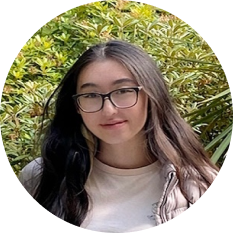
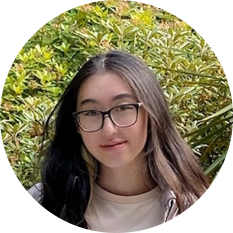
rearranged order of exec and updated pictures

diff --git a/client/src/pages/Exec.js b/client/src/pages/Exec.js
@@ -57,14 +57,26 @@ const Exec = () => {
       <button class="button" data-tip data-for="gilberto">
           <Card icon={images["gilbertodiaz.png"]} name={"Gilberto Diaz"} alias={"gilito345"} position={"Presidential Intern and Broadcast lead"} bio={"EECS, Class of 2024"}></Card>
       </button>
-      <button class="button" data-tip data-for="hari">
-          <Card icon={images["hariganeshan.png"]} name={"Hari Ganeshan"} alias={"WarRaptors"} position={"Tournament Operations and Marketing Intern"} bio={"Economics & Public Health, Class of 2024"}></Card>
+      <button class="button" data-tip data-for="therese">
+        <Card icon={images["thereserico.png"]} name={"Therese Rico"} alias={"PURPLE LILAC12"} position={"Tournament Operations and Championship Lead"} bio={"Business Administration, Class of 2024"}></Card>
       </button>
       <button class="button" data-tip data-for="jacob">
         <Card icon={images["jacobknudson.png"]} name={"Jacob Knudson"} alias={"woopah"} position={"Marketing and Outreach Lead"} bio={"Computer Science, Class of 2025"}></Card>
       </button>
+      <button class="button" data-tip data-for="sylvia">
+        <Card icon={images["sylviachen.png"]} name={"Sylvia Chen"} alias={"DeathbyYogurt"} position={"Design Lead"} bio={"Computer Science, Class of 2024"}></Card>
+      </button>
       <button class="button" data-tip data-for="angelina">
-        <Card icon={images["angelinawu.png"]} name={"Angelina Wu"} alias={"koizumaru"} position={"Design"} bio={"Cognitive Science, Class of 2024"}></Card>
+        <Card icon={images["angelinawu.png"]} name={"Angelina Wu"} alias={"koizumaru"} position={"Internal Ops Lead and Design"} bio={"Cognitive Science, Class of 2024"}></Card>
+      </button>
+      <button class="button" data-tip data-for="eric">
+        <Card icon={images["ericyang.png"]} name={"Eric Yang"} alias={"Eyrr"} position={"Historian Lead"} bio={"Computer Science, Class of 2025"}></Card>
+      </button>
+      <button class="button" data-tip data-for="christopher">  
+        <Card icon={images["christopherthomas.png"]} name={"Christopher Thomas"} alias={"lucitic"} position={"Championship"} bio={"Cognitive Science and Math, Class of 2023"}></Card>
+      </button>
+      <button class="button" data-tip data-for="hari">
+          <Card icon={images["hariganeshan.png"]} name={"Hari Ganeshan"} alias={"WarRaptors"} position={"Tournament Operations and Marketing Intern"} bio={"Economics & Public Health, Class of 2024"}></Card>
       </button>
       <button class="button" data-tip data-for="lauren">
         <Card icon={images["laurenkim.png"]} name={"Lauren Kim"} alias={"1aurein"} position={"Design Intern"} bio={"Art Practice, Class of 2026"}></Card>
@@ -72,53 +84,65 @@ const Exec = () => {
       <button class="button" data-tip data-for="phoebe">
         <Card icon={images["phoebelyu.png"]} name={"Phoebe Lyu"} alias={"Phoebe7Kiwi"} position={"Tournament Operations Intern"} bio={"Computer Science, Class of 2026"}></Card>
       </button>
-      <button class="button" data-tip data-for="christopher">  
-        <Card icon={images["christopherthomas.png"]} name={"Christopher Thomas"} alias={"lucitic"} position={"Championship"} bio={"Cognitive Science and Math, Class of 2023"}></Card>
-      </button>
       <button class="button" data-tip data-for="ashley">
         <Card icon={images["ashleywatanabe.png"]} name={"Ashley Watanabe"} alias={"wontonabe"} position={"Historian and Championship Intern"} bio={"Economics, Class of 2026"}></Card>
-      </button>
-      <button class="button" data-tip data-for="eric">
-        <Card icon={images["ericyang.png"]} name={"Eric Yang"} alias={"Eyrr"} position={"Historian Lead"} bio={"Computer Science, Class of 2025"}></Card>
-      </button>
-      <button class="button" data-tip data-for="therese">
-        <Card icon={images["thereserico.png"]} name={"Therese Rico"} alias={"PURPLE LILAC12"} position={"Tournament Operations and Championship Lead"} bio={"Business Administration, Class of 2024"}></Card>
-      </button>
-      <button class="button" data-tip data-for="sylvia">
-        <Card icon={images["sylviachen.png"]} name={"Sylvia Chen"} alias={"DeathbyYogurt"} position={"Design Lead"} bio={"Computer Science, Class of 2024"}></Card>
       </button>
       <button class="button" data-tip data-for="ivy">
         <Card icon={images["ivyliu.png"]} name={"Ivy Liu"} alias={"snowyfern"} position={"Design Intern"} bio={"Computer Science, Class of 2026"}></Card>
       </button>
         </div>
+
+        <ReactTooltip className="tooltip" id="ryan" effect="solid">
+        <Info bioName={"Ryan Cheng"} favchar={"rn it's Caitlyn"}
+        why={"Back in high school, I hosted League and Overwatch tournaments as a part of my company. After that era ended, I wanted to continue running these tournaments in college, so I joined BL. It also helps that I've played league for a better half of the last decade."}
+        interests={"I like to do research on the stock market, learn random stuff, and try to improve my financial independence knowledge (like how to increase credit score, etc)"}></Info>
+      </ReactTooltip>
         <ReactTooltip className="tooltip" id="gilberto" place="right" effect="solid">
         <Info bioName={"Gilberto Diaz"} favchar={"Teemo! (From Legends of Runeterra)"}
         why={"I like outdoor activities like soccer and frisbee! I also like reading and my favorite non-riot video game is Spelunky 2. :)"}
         interests={"BL lets me meet more LoR players in the wild, and play league with groups of friends! I love the in person social aspects of it too, and I think the BL community has amazing potential."}></Info>
       </ReactTooltip>
 
-      <ReactTooltip className="tooltip" id="ryan" effect="solid">
-        <Info bioName={"Ryan Cheng"} favchar={"rn it's Caitlyn"}
-        why={"Back in high school, I hosted League and Overwatch tournaments as a part of my company. After that era ended, I wanted to continue running these tournaments in college, so I joined BL. It also helps that I've played league for a better half of the last decade."}
-        interests={"I like to do research on the stock market, learn random stuff, and try to improve my financial independence knowledge (like how to increase credit score, etc)"}></Info>
+      <ReactTooltip className="tooltip" id="therese" effect="solid">
+        <Info bioName={"Therese Rico"} favchar={"neeko!!!! sage!!!! yordles (but the new set got me confused)!!!!"}
+        why={"I've been playing League of Legends on and off for about 6 or 7 years now, so joining this club just felt right. After meeting some funky fresh people in the community during my first semester freshman year and participating in many fun events, I decided to stay and apply for board!"}
+        interests={"I like to draw, make cute things out of clay, and play co-op games. I love puzzles !!! The last one I did was a 1000 piece Starry Night puzzle a few years ago, and I am itching to get my hands on another puzzle. I procrastinate a lot, much to the dismay of myself. My roommates are always suprised when they see me doing homework. Catch me watching both Mamma Mia! movies back-to-back instead of anything I am actually supposed to be doing."}></Info>
       </ReactTooltip>
-
-      <ReactTooltip className="tooltip" id="hari" effect="solid">
-        <Info bioName={"Hari Ganeshan"} favchar={"Vladimir"}
-        why={"I enjoy LoL, TFT, LoR, and even Val so getting to meet people with similar interests is really fun for me. Hopefully I can bring some exciting ideas to make this club enjoyable for everyone involved :)"}
-        interests={"I really enjoy listening to music, grabbing food, and anything with the company of friends. I also love doing anything active ranging from going to the gym, rock climbing, and ultimate frisbee. I'm a pretty spontaneous and outgoing person and would love to get to know y'all this semester."}></Info>
-      </ReactTooltip>
-
+      
       <ReactTooltip className="tooltip" id="jacob" effect="solid">
         <Info bioName={"Jacob Knudson"} favchar={"Bard"}
         why={"I've always loved playing games with others, so finding a community that's able to bring so many different people together over a shared passion for a game was a natural fit. Ever since I ran my first tournament with a few friends, I've always been looking for ways to get involved in the eSports scene. I'm looking forward to having a great time and hosting awesome events for all the members of Berkeley Legends!"}
         interests={"I like to play roguelikes (Hades, Dead Cells, and Slay the Spire), indie games (Omori, Hollow Knight, and Undertale), and other co-op games (Payday 2, Dead by Daylight, and Terraria). If I'm not playing games, I'm probably listening to music or just chatting with my friends. I'm really big on the hyperpop and experimental scenes, with artists like Glaive, 100 gecs, and Kurtains being some of my favorites."}></Info>
       </ReactTooltip>
 
+      <ReactTooltip className="tooltip" id="sylvia" effect="solid">
+        <Info bioName={"Sylvia Chen"} favchar={"Reyna"}
+        why={"League and Valorant have been a huge inspirations for me creatively, and I’ve always wanted to use my skills to create content for a club like BL."}
+        interests={"I play a lot of multiplayer games like Minecraft/Stardew/ROR2/Civ6 or singleplayer indies like Slime Ranchers/Gris. I also like draw digitally and do my own gel nail art! "}></Info>
+      </ReactTooltip>
+      
       <ReactTooltip className="tooltip" id="angelina" effect="solid">
         <Info bioName={"Angelina Wu"} favchar={"Lux support"}
         why={"I like League of Legends! It changed my life in a lot of ways. I also found it cool that our school has an active gaming community :)"}
         interests={"Baking, eating, building in The Sims, flaming Ryan, eating"}></Info>
+      </ReactTooltip>
+      
+      <ReactTooltip className="tooltip" id="eric" effect="solid">
+        <Info bioName={"Eric Yang"} favchar={"Raze"}
+        why={"I like playing games and hanging out with friends. I think it's pretty cool that there's a community where I can do both."}
+        interests={"I like participating in kind of competitive activities like sports and board games, overanalyzing the things I read and watch, swimming in places not Berkeley, and trying to take good pictures. I also just play FPS or indie games and read manga."}></Info>
+      </ReactTooltip>
+
+      <ReactTooltip className="tooltip" id="christopher" effect="solid">
+        <Info bioName={"Christopher Thomas"} favchar={"Aurelion Sol/Nidalee"}
+        why={"League has been a game that has brought me much joy (and immense pain) and I want to shine a light on the better side of the League community and be a part of it."}
+        interests={"Table Tennis, Drawing, Random Hobbies"}></Info>
+      </ReactTooltip>
+      
+      <ReactTooltip className="tooltip" id="hari" effect="solid">
+        <Info bioName={"Hari Ganeshan"} favchar={"Vladimir"}
+        why={"I enjoy LoL, TFT, LoR, and even Val so getting to meet people with similar interests is really fun for me. Hopefully I can bring some exciting ideas to make this club enjoyable for everyone involved :)"}
+        interests={"I really enjoy listening to music, grabbing food, and anything with the company of friends. I also love doing anything active ranging from going to the gym, rock climbing, and ultimate frisbee. I'm a pretty spontaneous and outgoing person and would love to get to know y'all this semester."}></Info>
       </ReactTooltip>
 
       <ReactTooltip className="tooltip" id="lauren" effect="solid">
@@ -133,34 +157,10 @@ const Exec = () => {
         interests={"Snowboarding, playing tennis, arranging music, playing the piano, and painting"}></Info>
       </ReactTooltip>
 
-      <ReactTooltip className="tooltip" id="christopher" effect="solid">
-        <Info bioName={"Christopher Thomas"} favchar={"Aurelion Sol/Nidalee"}
-        why={"League has been a game that has brought me much joy (and immense pain) and I want to shine a light on the better side of the League community and be a part of it."}
-        interests={"Table Tennis, Drawing, Random Hobbies"}></Info>
-      </ReactTooltip>
-
       <ReactTooltip className="tooltip" id="ashley" effect="solid">
         <Info bioName={"Ashley Watanabe"} favchar={"Omen"}
         why={"I love being able to hang out and interact with such a positive gaming community, and Berkeley Legends has allowed me to meet so many people! Also, I have a crippling VALORANT addiction, and it's fun to help out in a community that suits my interests!"}
         interests={"Besides Riot Games I enjoy going to the great wide world of the outdoors, hiking and running mostly(touching grass I know), consuming unholy amounts of boba, and trying to keep my growing colony of plants alive :)"}></Info>
-      </ReactTooltip>
-
-      <ReactTooltip className="tooltip" id="eric" effect="solid">
-        <Info bioName={"Eric Yang"} favchar={"Raze"}
-        why={"I like playing games and hanging out with friends. I think it's pretty cool that there's a community where I can do both."}
-        interests={"I like participating in kind of competitive activities like sports and board games, overanalyzing the things I read and watch, swimming in places not Berkeley, and trying to take good pictures. I also just play FPS or indie games and read manga."}></Info>
-      </ReactTooltip>
-
-      <ReactTooltip className="tooltip" id="therese" effect="solid">
-        <Info bioName={"Therese Rico"} favchar={"neeko!!!! sage!!!! yordles (but the new set got me confused)!!!!"}
-        why={"I've been playing League of Legends on and off for about 6 or 7 years now, so joining this club just felt right. After meeting some funky fresh people in the community during my first semester freshman year and participating in many fun events, I decided to stay and apply for board!"}
-        interests={"I like to draw, make cute things out of clay, and play co-op games. I love puzzles !!! The last one I did was a 1000 piece Starry Night puzzle a few years ago, and I am itching to get my hands on another puzzle. I procrastinate a lot, much to the dismay of myself. My roommates are always suprised when they see me doing homework. Catch me watching both Mamma Mia! movies back-to-back instead of anything I am actually supposed to be doing."}></Info>
-      </ReactTooltip>
-      
-      <ReactTooltip className="tooltip" id="sylvia" effect="solid">
-        <Info bioName={"Sylvia Chen"} favchar={"Reyna"}
-        why={"League and Valorant have been a huge inspirations for me creatively, and I’ve always wanted to use my skills to create content for a club like BL."}
-        interests={"I play a lot of multiplayer games like Minecraft/Stardew/ROR2/Civ6 or singleplayer indies like Slime Ranchers/Gris. I also like draw digitally and do my own gel nail art! "}></Info>
       </ReactTooltip>
 
       <ReactTooltip className="tooltip" id="ivy" effect="solid">
